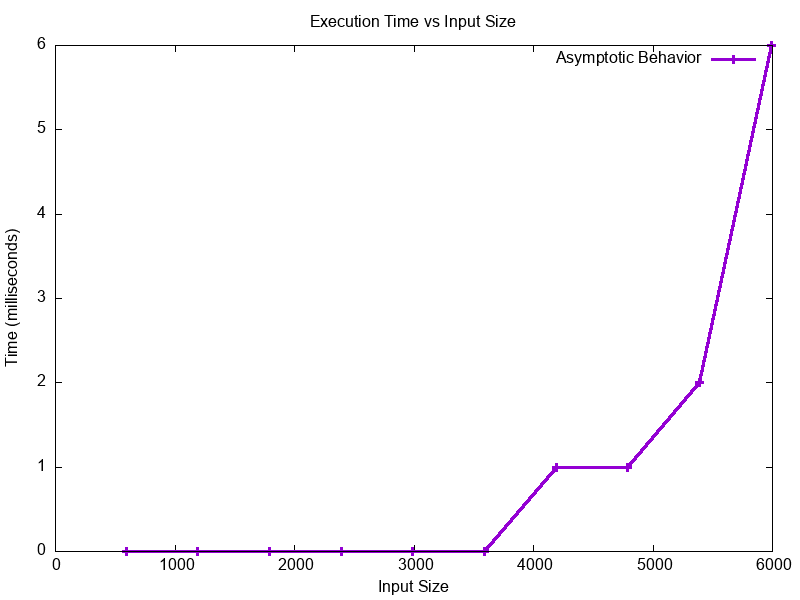
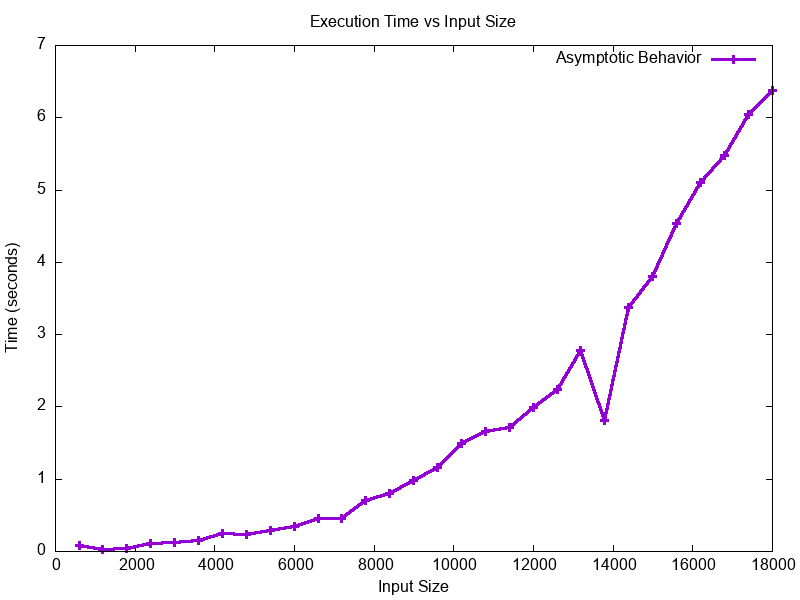
us13 and 14 optimised (we need to check if it makes sense)

diff --git a/src/main/java/PI_MDISC_Group_072/main/java/Main.java b/src/main/java/PI_MDISC_Group_072/main/java/Main.java
@@ -8,7 +8,7 @@ import java.util.Scanner;
 
 public class Main {
 
-    public static final int QUANTITY_OF_FILES = 10;
+    public static final int QUANTITY_OF_FILES = 30;
 
     public static void main(String[] args) throws IOException, InterruptedException {
         Locale.setDefault(Locale.US);
@@ -40,18 +40,19 @@ public class Main {
 
         ArrayList<Edge> graphEdges = readFile(file);
         Graph graph = addEdges(graphEdges);
-        createGraph(graph,inputFile);
+        createGraph(graph, inputFile);
 
         bubbleSort(graphEdges);
 
         ArrayList<Vertex> verticesGraph = getVerticesGraph(graphEdges);
 
-        Graph spanningTree = kruskal(graphEdges, verticesGraph);
+        Graph spanningTree = Graph.kruskal(graphEdges, verticesGraph);
 
         writeOutput(spanningTree, inputFile);
         graphInfo(graphEdges.size(), verticesGraph.size(), spanningTree, inputFile);
         createSpanningTree(spanningTree, inputFile);
     }
+
 
     private static void US14() throws IOException, InterruptedException {
         Scanner sc = new Scanner(System.in);
@@ -62,7 +63,7 @@ public class Main {
         ArrayList<Integer> quantityOfEdges = new ArrayList<>();
 
         for (int i = 0; i <  QUANTITY_OF_FILES; i++) {
-            long startTime = System.nanoTime();
+
 
             inputFile = aux;
             inputFile = new StringBuilder(inputFile + "_" + (i + 1));
@@ -72,10 +73,11 @@ public class Main {
             ArrayList<Edge> graphEdges = readFile(file);
             quantityOfEdges.add(graphEdges.size());
             ArrayList<Vertex> verticesGraph = getVerticesGraph(graphEdges);
-            Graph spanningTree = kruskal(graphEdges, verticesGraph);
-            long endTime = System.nanoTime();
+            long startTime = System.currentTimeMillis();
+            Graph spanningTree = Graph.kruskal(graphEdges, verticesGraph);
+            long endTime = System.currentTimeMillis();
             long durationTime =((endTime - startTime));
-            time.add((double) durationTime);
+            time.add((double) durationTime * Math.pow(10,-2));
             System.out.println("File: " + inputFile + ".csv done!");
         }
 
@@ -202,74 +204,6 @@ public class Main {
         }
     }
 
-    private static Graph kruskal(ArrayList<Edge> sortedGraphEdges, ArrayList<Vertex> verticesGraph) {
-        Graph A = new Graph();
-        Vertex[][] S = new Vertex[verticesGraph.size()][verticesGraph.size()];
-        int nA = 0;
-        addVerticesToSack(verticesGraph, S, nA);
-        int i = 0;
-        while (nA < verticesGraph.size() - 1) {
-            Edge edge = sortedGraphEdges.get(i);
-            int Sp = locationVertexInS(edge.getOrigin(), S);
-            int Sq = locationVertexInS(edge.getDestiny(), S);
-            if (Sp != Sq && (Sp != -1 && Sq != -1)) {
-                A.addEdge(edge);
-                moveVertices(S, Sp, Sq);
-                nA++;
-            }
-            i++;
-        }
-        return A;
-    }
-
-    private static void addVerticesToSack(ArrayList<Vertex> verticesGraph, Vertex[][] S, int nA) {
-        for (Vertex vertex : verticesGraph) {
-            S[0][nA] = vertex;
-            nA++;
-        }
-    }
-
-    private static int locationVertexInS(Vertex vertex, Vertex[][] S) {
-        for (int i = 0; i < S[0].length; i++) {
-            for (Vertex[] vertices : S) {
-                if (vertices[i] != null && vertices[i].equals(vertex)) {
-                    return i;
-                }
-            }
-        }
-        return -1;
-    }
-
-    private static void moveVertices(Vertex[][] S, int Sp, int Sq) {
-        int i = 0;
-        int j = 0;
-
-        while (S[j][Sp] != null) {
-            j++;
-            if (j == S.length){
-                break;
-            }
-        }
-
-        while (S[i][Sq] != null && j < S.length) {
-            S[j][Sp] = S[i][Sq];
-            S[i][Sq] = null;
-            i++;
-            j++;
-
-            if (j == S.length) {
-                break;
-            }
-
-            while (S[j][Sp] != null) {
-                j++;
-                if (j == S.length) {
-                    break;
-                }
-            }
-        }
-    }
-
     private static String getFile(Scanner sc) {
         System.out.println("Insert the name of the file with the vertices, costs, and connections:");
         return sc.nextLine();
@@ -340,7 +274,7 @@ public class Main {
         printWriter.println("set output 'src/main/java/PI_MDISC_Group_072/Output/asymptotic_graph.png'");
         printWriter.println("set title 'Execution Time vs Input Size'");
         printWriter.println("set xlabel 'Input Size'");
-        printWriter.println("set ylabel 'Time (milliseconds)'");
+        printWriter.println("set ylabel 'Time (seconds)'");
         printWriter.println("set datafile separator ';'");
         printWriter.println("plot 'src/main/java/PI_MDISC_Group_072/Output/AsymptoticBehavior.csv' skip 1 using 1:2 with linespoints linewidth 3  title 'Asymptotic Behavior', \\");
         printWriter.close();

diff --git a/src/main/java/PI_MDISC_Group_072/main/java/Graph.java b/src/main/java/PI_MDISC_Group_072/main/java/Graph.java
@@ -68,4 +68,72 @@ public class Graph {
     public ArrayList<Edge> getEdges(){
         return this.graph;
     }
+
+    /**
+     * This is the kruskal method that will generate the lowest
+     * costing spanning tree possible
+     *
+     * @param sortedGraphEdges all the edges sorted
+     * @param verticesGraph all the graph vertices
+     * @return spanning tree
+     */
+
+    public static Graph kruskal(ArrayList<Edge> sortedGraphEdges, ArrayList<Vertex> verticesGraph) {
+        Graph A = new Graph();
+        int[] parent = new int[verticesGraph.size()];
+        int[] rank = new int[verticesGraph.size()];
+        for (int i = 0; i < verticesGraph.size(); i++) {
+            parent[i] = i;
+            rank[i] = 0;
+        }
+        int nA = 0;
+        int i = 0;
+        while (nA < verticesGraph.size() - 1 && i < sortedGraphEdges.size()) {
+            Edge e = sortedGraphEdges.get(i);
+            int u = verticesGraph.indexOf(e.getOrigin());
+            int v = verticesGraph.indexOf(e.getDestiny());
+            int rootU = find(u, parent);
+            int rootV = find(v, parent);
+            if (rootU != rootV) {
+                A.addEdge(e);
+                union(rootU, rootV, parent, rank);
+                nA++;
+            }
+            i++;
+        }
+        return A;
+    }
+
+    /**
+     * Will check if the vertex is still in is original sack
+     *
+     * @param vertex of the graph
+     * @param parent a sack where a vertex is original from
+     * @return the vertex
+     */
+    private static int find(int vertex, int[] parent) {
+        if (parent[vertex] != vertex) {
+            parent[vertex] = find(parent[vertex], parent);
+        }
+        return parent[vertex];
+    }
+
+    /**
+     * Will get the multiple vertices to move them to the sack
+     *
+     * @param rootU
+     * @param rootV
+     * @param parent
+     * @param rank
+     */
+    private static void union(int rootU, int rootV, int[] parent, int[] rank) {
+        if (rank[rootU] > rank[rootV]) {
+            parent[rootV] = rootU;
+        } else if (rank[rootU] < rank[rootV]) {
+            parent[rootU] = rootV;
+        } else {
+            parent[rootV] = rootU;
+            rank[rootU]++;
+        }
+    }
 }
